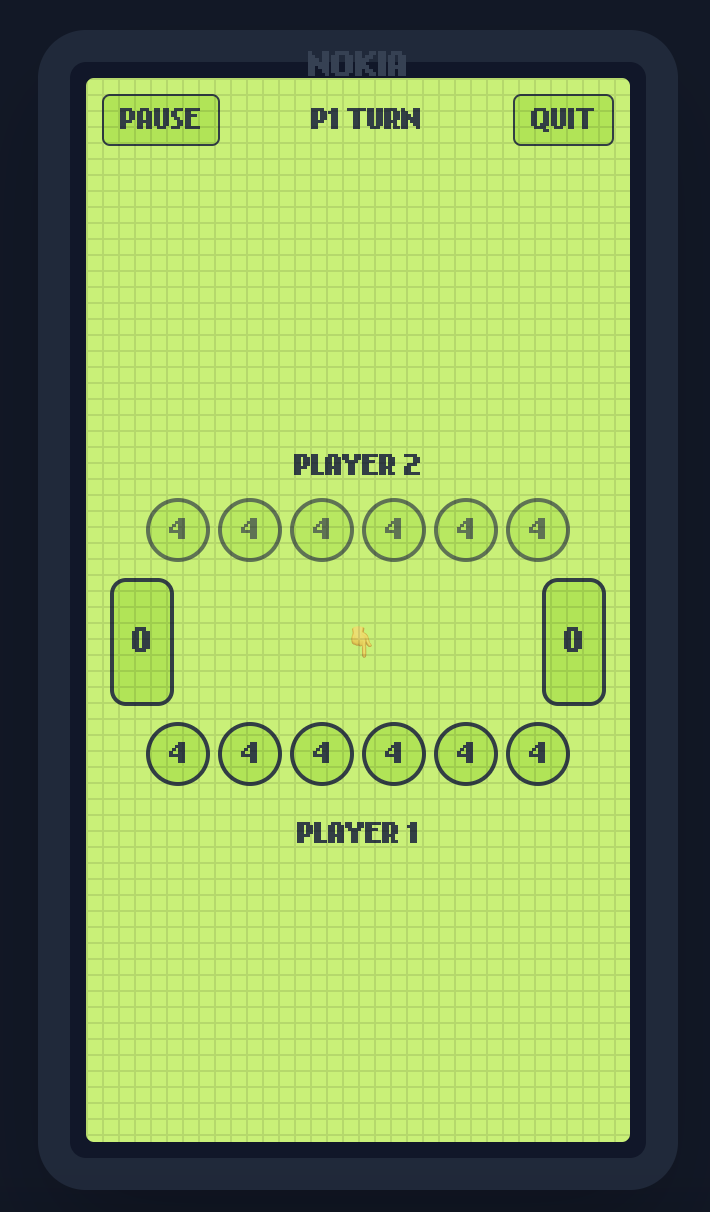
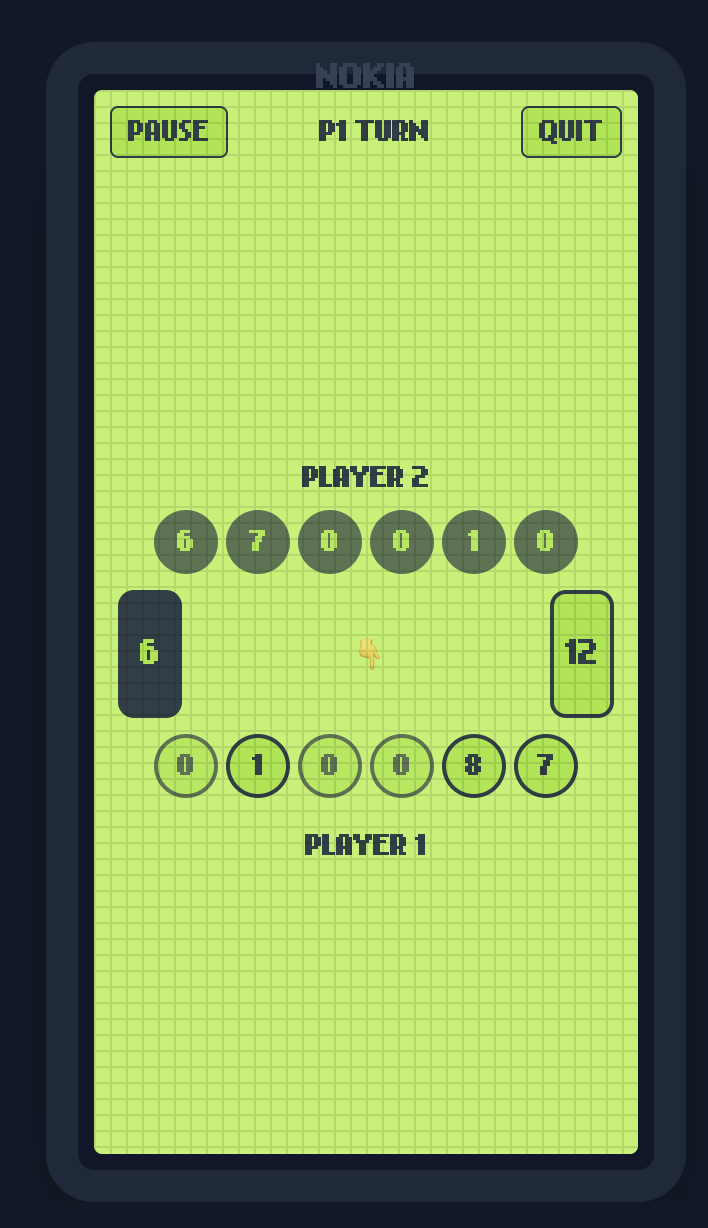
feat: add game version, adjust game colors

Changed region(s): [[0.0932, 0.0305, 0.9011, 0.9464], [0.4972, 0.519, 0.5282, 0.5495]]

diff --git a/components/game-board.tsx b/components/game-board.tsx
@@ -81,32 +81,33 @@ function GameBoardComponent({
         {[12, 11, 10, 9, 8, 7].map((i) => {
           const isSelectable = gameState.currentPlayer === Player.Two && !playAgainstAI && gameState.board[i] > 0
           const isHighlighted = isPitHighlighted(i)
-          return (
-            <button
-              key={`pit-${i}`}
-              className={`w-8 h-8 rounded-full flex items-center justify-center text-xs font-bold nokia-text
-                ${selectedPit === i ? "bg-lime-500" : isHighlighted ? "bg-lime-600" : "bg-lime-400"} 
-                ${isSelectable ? "hover:bg-lime-500 cursor-pointer" : "opacity-70 cursor-default"}
-                ${hoveredPit === i ? "ring-2 ring-lime-700" : ""}
-                border-2 border-nokia-dark transition-colors duration-200`}
-              onClick={() => onPitSelect(i)}
-              onMouseEnter={() => !animating && isSelectable && setHoveredPit(i)}
-              onMouseLeave={() => setHoveredPit(null)}
-              disabled={animating || !isSelectable}
-            >
-              <SeedDisplay count={gameState.board[i]} />
-            </button>
-          )
+            return (
+              <button
+                key={`pit-${i}`}
+                className={`w-8 h-8 rounded-full flex items-center justify-center text-xs font-bold nokia-text
+                  ${selectedPit === i ? "bg-nokia-dark opacity-50" : isHighlighted ? "bg-nokia-dark opacity-90" : "bg-nokia-dark"} 
+                  ${isSelectable ? "hover:bg-nokia-dark cursor-pointer" : "opacity-70 cursor-default"}
+                  ${hoveredPit === i ? "ring-2 ring-lime-700" : ""}
+                  border-2 border-nokia-dark transition-colors duration-200`}
+                onClick={() => onPitSelect(i)}
+                onMouseEnter={() => !animating && isSelectable && setHoveredPit(i)}
+                onMouseLeave={() => setHoveredPit(null)}
+                disabled={animating || !isSelectable}
+              >
+                <SeedDisplay count={gameState.board[i]} textColorClass="text-lime"/>
+              </button>
+            )
         })}
       </div>
 
       {/* Stores (mancalas) */}
       <div className="flex justify-between w-full px-1 mb-2">
         <div
-          className={`w-8 h-16 rounded-lg ${isPitHighlighted(1) ? "bg-lime-600" : "bg-lime-400"} border-2 border-nokia-dark flex items-center justify-center text-sm font-bold nokia-text text-nokia-dark transition-colors duration-200`}
+          className={`w-8 h-16 rounded-lg ${isPitHighlighted(1) ? "bg-lime-600" : "bg-nokia-dark"} border-2 border-nokia-dark flex items-center justify-center text-sm font-bold nokia-text text-lime transition-colors duration-200`}
         >
           {gameState.stores[Player.Two]}
         </div>
+
 
         {/* Current player indicator */}
         <div className="flex items-center justify-center">

diff --git a/app/page.tsx b/app/page.tsx
@@ -182,7 +182,10 @@ export default function BantumiGame() {
     <div className="flex flex-col items-center min-h-screen w-screen overflow-x-hidden bg-gray-900 touch-auto pb-8 md:pb-0">
       {/* Header */}
       <header className="w-full flex flex-col md:flex-row justify-between items-center px-4 py-4 bg-transparent space-y-2 md:space-y-0">
-        <div className="text-lime-400 text-2xl font-bold nokia-text">BANTUMI</div>
+        <div className="flex items-center">
+          <div className="text-lime-400 text-2xl font-bold nokia-text">BANTUMI</div>
+          <div className="text-lime-300 text-xs nokia-text ml-2">v0.1.1</div>
+        </div>
         <div className="flex space-x-2">
           <a
             href="https://github.com/Zacharias02/bantumi-game-app"

diff --git a/components/game-over-screen.tsx b/components/game-over-screen.tsx
@@ -26,11 +26,9 @@ function GameOverScreenComponent({ gameState, onPlayAgain, onMenuClick, playAgai
       <div className="text-lg font-bold text-nokia-dark mb-6 nokia-text">
         {winner === null
           ? "IT'S A TIE!"
-          : winner === Player.One
-            ? "YOU WIN!"
-            : playAgainstAI
-              ? "COMPUTER WINS!"
-              : "PLAYER 2 WINS!"}
+          : `${winner === Player.One 
+              ? (playAgainstAI ? "YOU" : "PLAYER 1") 
+              : (playAgainstAI ? "COMPUTER" : "PLAYER 2")} WINS!`}
       </div>
 
       <div className="bg-lime-400 border-2 border-nokia-dark rounded-lg p-2 mb-6">

diff --git a/components/seed-display.tsx b/components/seed-display.tsx
@@ -4,10 +4,11 @@ import { memo } from "react"
 
 interface SeedDisplayProps {
   count: number
+  textColorClass?: string
 }
 
-function SeedDisplayComponent({ count }: SeedDisplayProps) {
-  return <span className="text-nokia-dark font-bold nokia-text">{count}</span>
+function SeedDisplayComponent({ count, textColorClass = "text-nokia-dark" }: SeedDisplayProps) {
+  return <span className={`${textColorClass} font-bold nokia-text`}>{count}</span>
 }
 
 // Memoize the component to prevent unnecessary re-renders

diff --git a/README.md b/README.md
@@ -40,11 +40,9 @@ Here’s a visual preview of the Bantumi Game App:
 ## Getting Started
 
 To get started with this project, follow these steps:
-
 ### Prerequisites
-
-- Node.js installed on your machine
-- A package manager like npm or yarn
+- [Node.js](https://nodejs.org/) installed on your machine
+- A package manager like [pnpm](https://pnpm.io/)
 
 ### Installation
 
@@ -58,13 +56,13 @@ To get started with this project, follow these steps:
 2. Install dependencies:
 
    ```bash
-   npm install
+   pnpm install
    ```
 
 3. Start the development server:
 
    ```bash
-   npm run dev
+   pnpm run dev
    ```
 
 ## Usage
